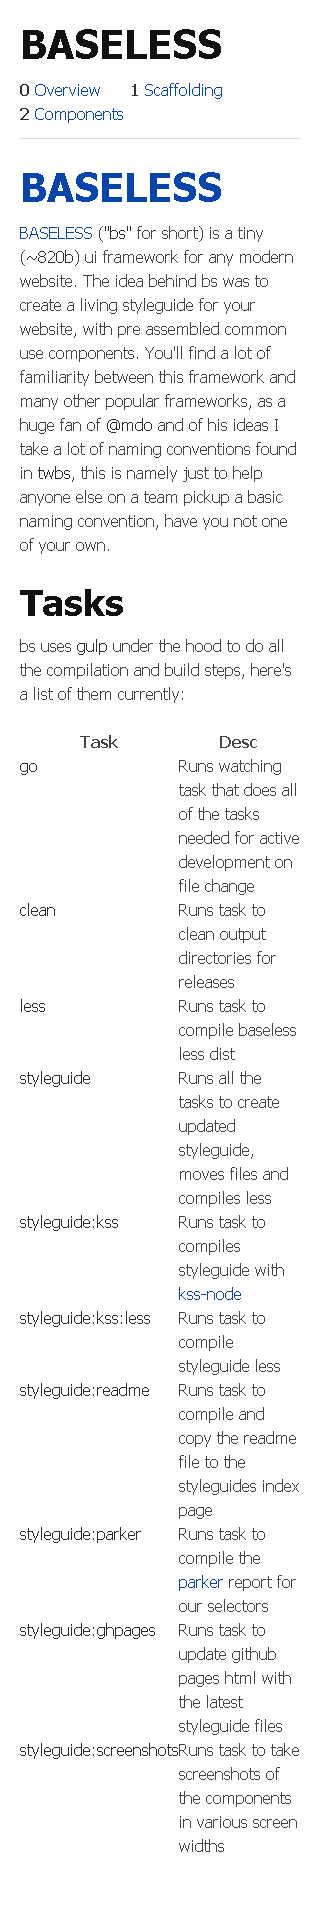
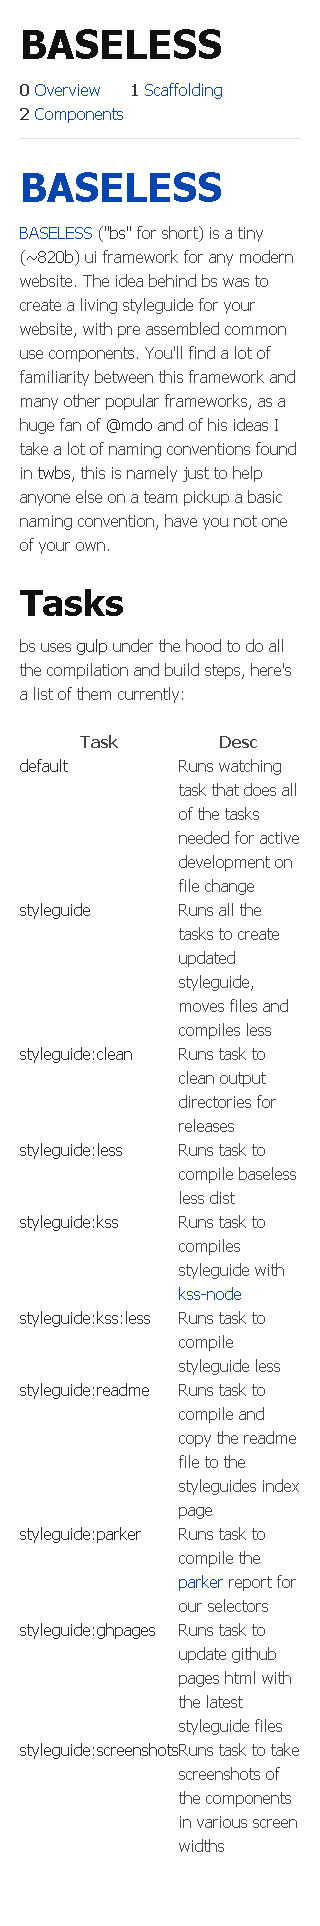
things man, things

Changed region(s): [[0.5625, 0.4673, 0.8438, 0.6231], [0.25, 0.5296, 0.2812, 0.5607]]

diff --git a/gulpfile.js b/gulpfile.js
@@ -14,12 +14,18 @@ var gulp = require('gulp'),
     conf = require('./config'),
     tasks = conf.tasks;
 
+
+// CLEAN PROJECT TASK
+// if things get weird, you can fix them with this
 gulp.task(tasks.clean.name, function() {
   gulp.src(tasks.clean.src, {read: false})
     .pipe(gclean({force: true}))
     .on('error', gutil.log);
 });
 
+// DIST LESS TASK
+// compiles, minifies, concats distributed version 
+// of baseless
 gulp.task(tasks.dist.name, function() {
   gulp.src(tasks.dist.src)
     .pipe(gless(tasks.less.opts))
@@ -30,6 +36,11 @@ gulp.task(tasks.dist.name, function() {
     .on('error', gutil.log);
 });
 
+// README TASK
+// grabs the lastest copy of readme.md and renames
+// it to `styleguide.md` inside of the template
+// folder so we can use it as our homepage of the
+// styleguide
 gulp.task(tasks.readme.name, function() {
   gulp.src(tasks.readme.src)
     .pipe(grename(tasks.readme.dest.file))
@@ -37,16 +48,26 @@ gulp.task(tasks.readme.name, function() {
     .on('error', gutil.log);
 });
 
+// KSS TASK
+// child process to [kss-node](#) that builds the
+// 'living' styleguide
 gulp.task(tasks.kss.name, 
   gshell.task([tasks.kss.exec], 
   {templateData: tasks.kss.opts}
 ));
 
+// KSS TEMPLATE LESS TASK
+// compiles the less files specific to the 
+// styleguides template
 gulp.task(tasks.kss.less.name,
   gshell.task([tasks.kss.less.exec],
   {templateData: tasks.kss.less.opts}
 ));
 
+// LESS TASK
+// base less task for compiling baseless framework,
+// this one specifically gets delivered to the 
+// styleguide, and is not the `dist` task
 gulp.task(tasks.less.name, function() {
   gulp.src(tasks.less.src)
     .pipe(gless(tasks.less.opts))
@@ -56,29 +77,48 @@ gulp.task(tasks.less.name, function() {
     .on('error', gutil.log);
 });
 
+// SCREENSHOTS TASK
+// task to take basic screenshots of various
+// device widths, helpful for pixel diffing
 gulp.task(tasks.screens.name, function() {
   gulp.src(tasks.screens.src)
     .pipe(gshot(tasks.screens.opts))
     .on('error', gutil.log);
 });
 
+// GHPAGES TASK
+// automate ghpages! we want this as easy
+// as possible, no excuses
 gulp.task(tasks.ghpages.name, function() {
   gulp.src(tasks.ghpages.src)
     .pipe(gpages());
 });
 
+// PARKER TASK
+// generates [parker](#) stats based on our
+// stylesheet, lists various important selector
+// information
 gulp.task(tasks.parker.name, function() {
   gulp.src(tasks.parker.src)
     .pipe(gparker(tasks.parker.opts))
     .on('error', gutil.log);
 });
 
+// WATCH TASK
+// handles all the specific files in the framework
+// that should be watched on, allows us to dev like
+// a boss
 gulp.task('watch', function() {
   gulp.watch(['less/**/*.less', '!less/templates/styleguide/public/*.less'], [tasks.dist.name, tasks.less.name, tasks.kss.name]);
   gulp.watch('./README.md', [tasks.readme.name, 'styleguide']);
   gulp.watch('less/templates/styleguide/public/*.less', [tasks.kss.less.name]);
 });
 
-gulp.task('styleguide', [tasks.dist.name, tasks.less.name, tasks.readme.name, tasks.kss.name, tasks.screens.name, tasks.parker.name]);
+// STYLEGUIDE TASK
+// collection of styleguide related tasks so we can 
+// prepare for distribution
+gulp.task('styleguide', [tasks.less.name, tasks.dist.name, tasks.readme.name, tasks.kss.name, tasks.screens.name, tasks.parker.name]);
 
-gulp.task('default', [tasks.dist.name, tasks.less.name, tasks.kss.name, 'watch']);
+// DEFAULT TASK
+// ...
+gulp.task('default', [tasks.less.name, tasks.dist.name, tasks.kss.name, 'watch']);

diff --git a/styleguide/index.html b/styleguide/index.html
@@ -64,20 +64,20 @@ of your own.</p>
 </thead>
 <tbody>
 <tr>
-<td><code>go</code></td>
+<td><code>default</code></td>
 <td>Runs watching task that does all of the tasks needed for active development on file change</td>
-</tr>
-<tr>
-<td><code>clean</code></td>
-<td>Runs task to clean output directories for releases</td>
-</tr>
-<tr>
-<td><code>less</code></td>
-<td>Runs task to compile baseless less dist</td>
 </tr>
 <tr>
 <td><code>styleguide</code></td>
 <td>Runs all the tasks to create updated styleguide, moves files and compiles less</td>
+</tr>
+<tr>
+<td><code>styleguide:clean</code></td>
+<td>Runs task to clean output directories for releases</td>
+</tr>
+<tr>
+<td><code>styleguide:less</code></td>
+<td>Runs task to compile baseless less dist</td>
 </tr>
 <tr>
 <td><code>styleguide:kss</code></td>

diff --git a/dist/bs-stats.md b/dist/bs-stats.md
@@ -44,3 +44,69 @@ Last generated: 06/02/2015, 13:17:29 by [gulp-parker](https://github.com/PavelDe
 * * *
 
 Last generated: 06/02/2015, 13:26:44 by [gulp-parker](https://github.com/PavelDemyanenko/gulp-parker).
+
+### d:\node\baseless\dist\style.min.css
+
+- **Total Stylesheets:** 1
+- **Total Stylesheet Size:** 28348
+- **Total Media Queries:** 2
+- **Total Rules:** 288
+- **Selectors Per Rule:** 1.7256944444444444
+- **Total Selectors:** 497
+- **Identifiers Per Selector:** 2.5191146881287727
+- **Specificity Per Selector:** 19.293762575452718
+- **Top Selector Specificity:** 50
+- **Top Selector Specificity Selector:** .bs-panel.default .panel-list .panel-list-item.first
+- **Total Id Selectors:** 1
+- **Total Identifiers:** 1252
+- **Total Declarations:** 722
+- **Total Unique Colors:** 78
+- **Total Important Keywords:** 1
+
+* * *
+
+Last generated: 06/02/2015, 13:38:38 by [gulp-parker](https://github.com/PavelDemyanenko/gulp-parker).
+
+### d:\node\baseless\dist\style.min.css
+
+- **Total Stylesheets:** 1
+- **Total Stylesheet Size:** 28348
+- **Total Media Queries:** 2
+- **Total Rules:** 288
+- **Selectors Per Rule:** 1.7256944444444444
+- **Total Selectors:** 497
+- **Identifiers Per Selector:** 2.5191146881287727
+- **Specificity Per Selector:** 19.293762575452718
+- **Top Selector Specificity:** 50
+- **Top Selector Specificity Selector:** .bs-panel.default .panel-list .panel-list-item.first
+- **Total Id Selectors:** 1
+- **Total Identifiers:** 1252
+- **Total Declarations:** 722
+- **Total Unique Colors:** 78
+- **Total Important Keywords:** 1
+
+* * *
+
+Last generated: 06/02/2015, 13:39:32 by [gulp-parker](https://github.com/PavelDemyanenko/gulp-parker).
+
+### d:\node\baseless\dist\style.min.css
+
+- **Total Stylesheets:** 1
+- **Total Stylesheet Size:** 28348
+- **Total Media Queries:** 2
+- **Total Rules:** 288
+- **Selectors Per Rule:** 1.7256944444444444
+- **Total Selectors:** 497
+- **Identifiers Per Selector:** 2.5191146881287727
+- **Specificity Per Selector:** 19.293762575452718
+- **Top Selector Specificity:** 50
+- **Top Selector Specificity Selector:** .bs-panel.default .panel-list .panel-list-item.first
+- **Total Id Selectors:** 1
+- **Total Identifiers:** 1252
+- **Total Declarations:** 722
+- **Total Unique Colors:** 78
+- **Total Important Keywords:** 1
+
+* * *
+
+Last generated: 06/02/2015, 13:40:18 by [gulp-parker](https://github.com/PavelDemyanenko/gulp-parker).

diff --git a/README.md b/README.md
@@ -10,10 +10,10 @@ bs uses [`gulp`](https://github.com/gulpjs/gulp) under the hood to do all the co
 
 | Task | Desc
 | --- | --- |
-| `go` | Runs watching task that does all of the tasks needed for active development on file change
-| `clean` | Runs task to clean output directories for releases
-| `less` | Runs task to compile baseless less dist
+| `default` | Runs watching task that does all of the tasks needed for active development on file change
 | `styleguide` | Runs all the tasks to create updated styleguide, moves files and compiles less
+| `styleguide:clean` | Runs task to clean output directories for releases
+| `styleguide:less` | Runs task to compile baseless less dist
 | `styleguide:kss` | Runs task to compiles styleguide with [kss-node](https://github.com/kss-node/kss-node)
 | `styleguide:kss:less` | Runs task to compile styleguide less
 | `styleguide:readme` | Runs task to compile and copy the readme file to the styleguides index page

diff --git a/less/styleguide.md b/less/styleguide.md
@@ -10,10 +10,10 @@ bs uses [`gulp`](https://github.com/gulpjs/gulp) under the hood to do all the co
 
 | Task | Desc
 | --- | --- |
-| `go` | Runs watching task that does all of the tasks needed for active development on file change
-| `clean` | Runs task to clean output directories for releases
-| `less` | Runs task to compile baseless less dist
+| `default` | Runs watching task that does all of the tasks needed for active development on file change
 | `styleguide` | Runs all the tasks to create updated styleguide, moves files and compiles less
+| `styleguide:clean` | Runs task to clean output directories for releases
+| `styleguide:less` | Runs task to compile baseless less dist
 | `styleguide:kss` | Runs task to compiles styleguide with [kss-node](https://github.com/kss-node/kss-node)
 | `styleguide:kss:less` | Runs task to compile styleguide less
 | `styleguide:readme` | Runs task to compile and copy the readme file to the styleguides index page
